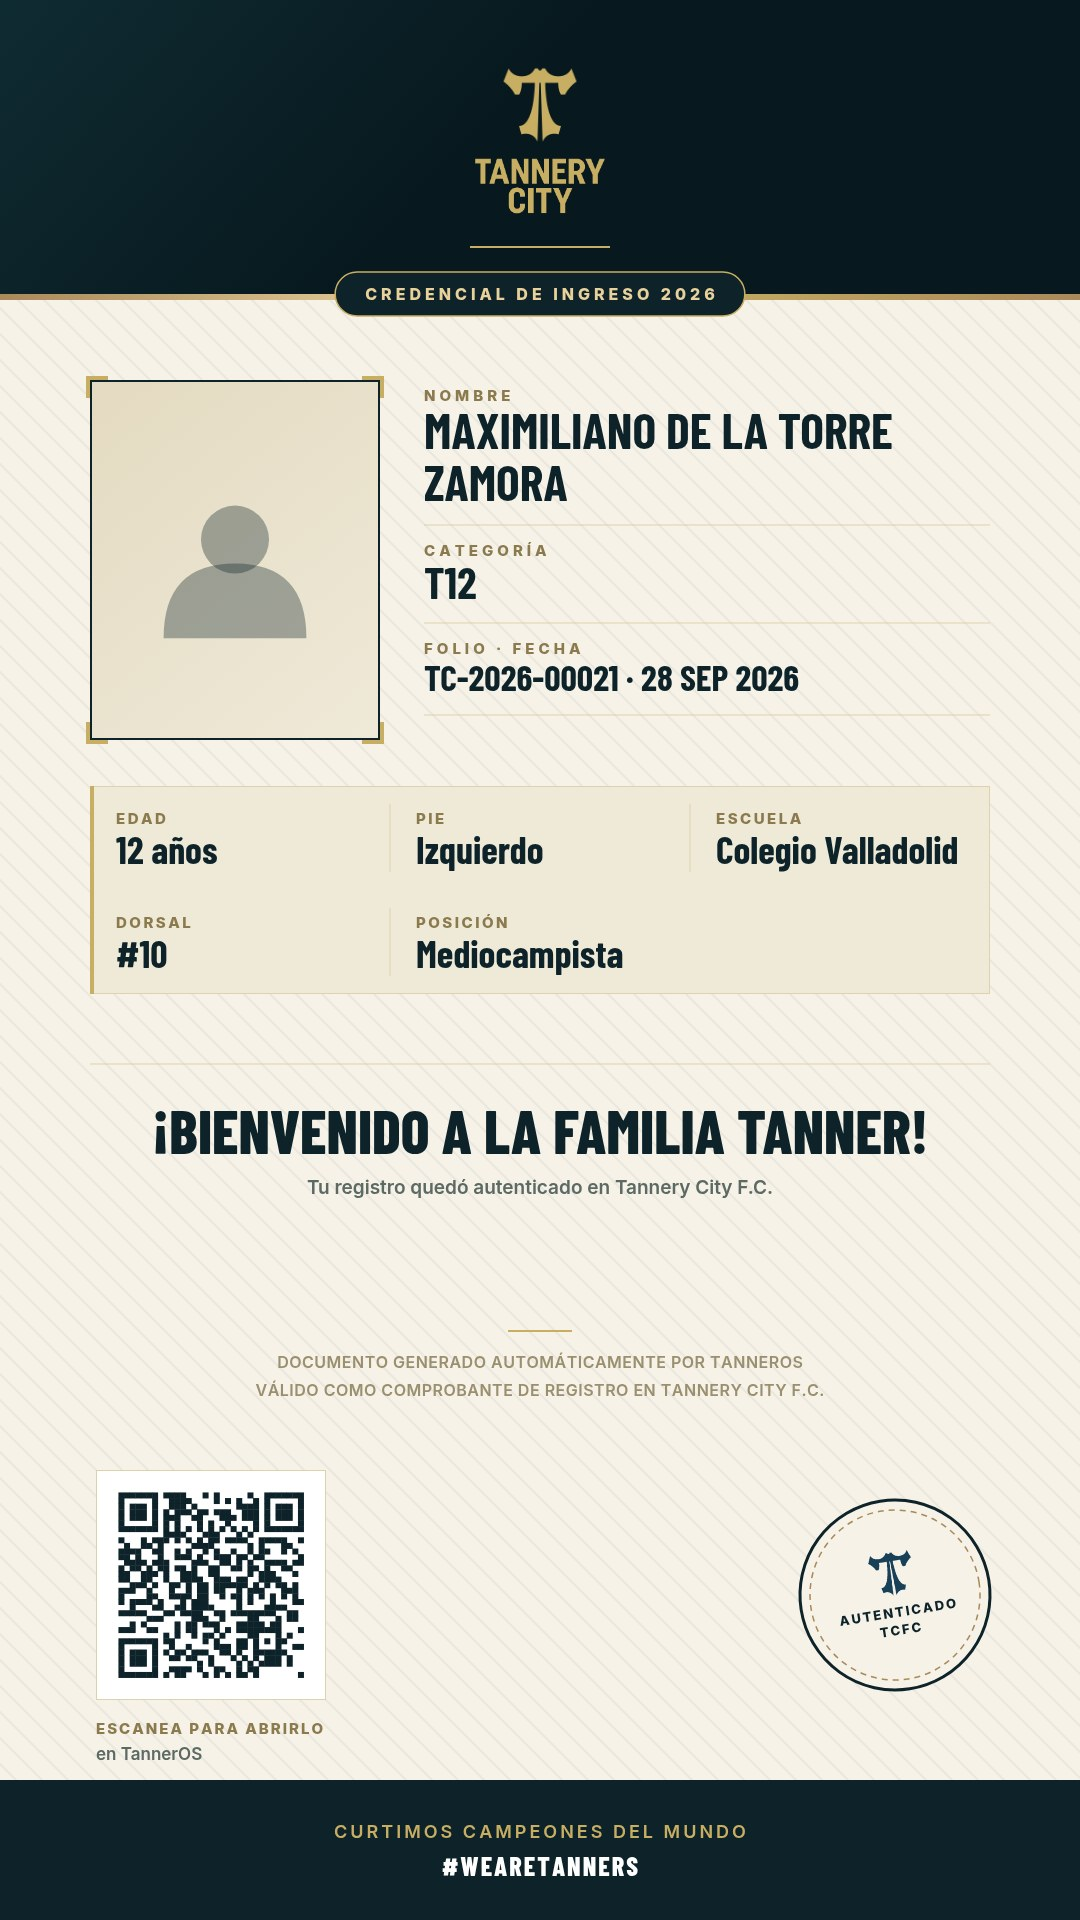
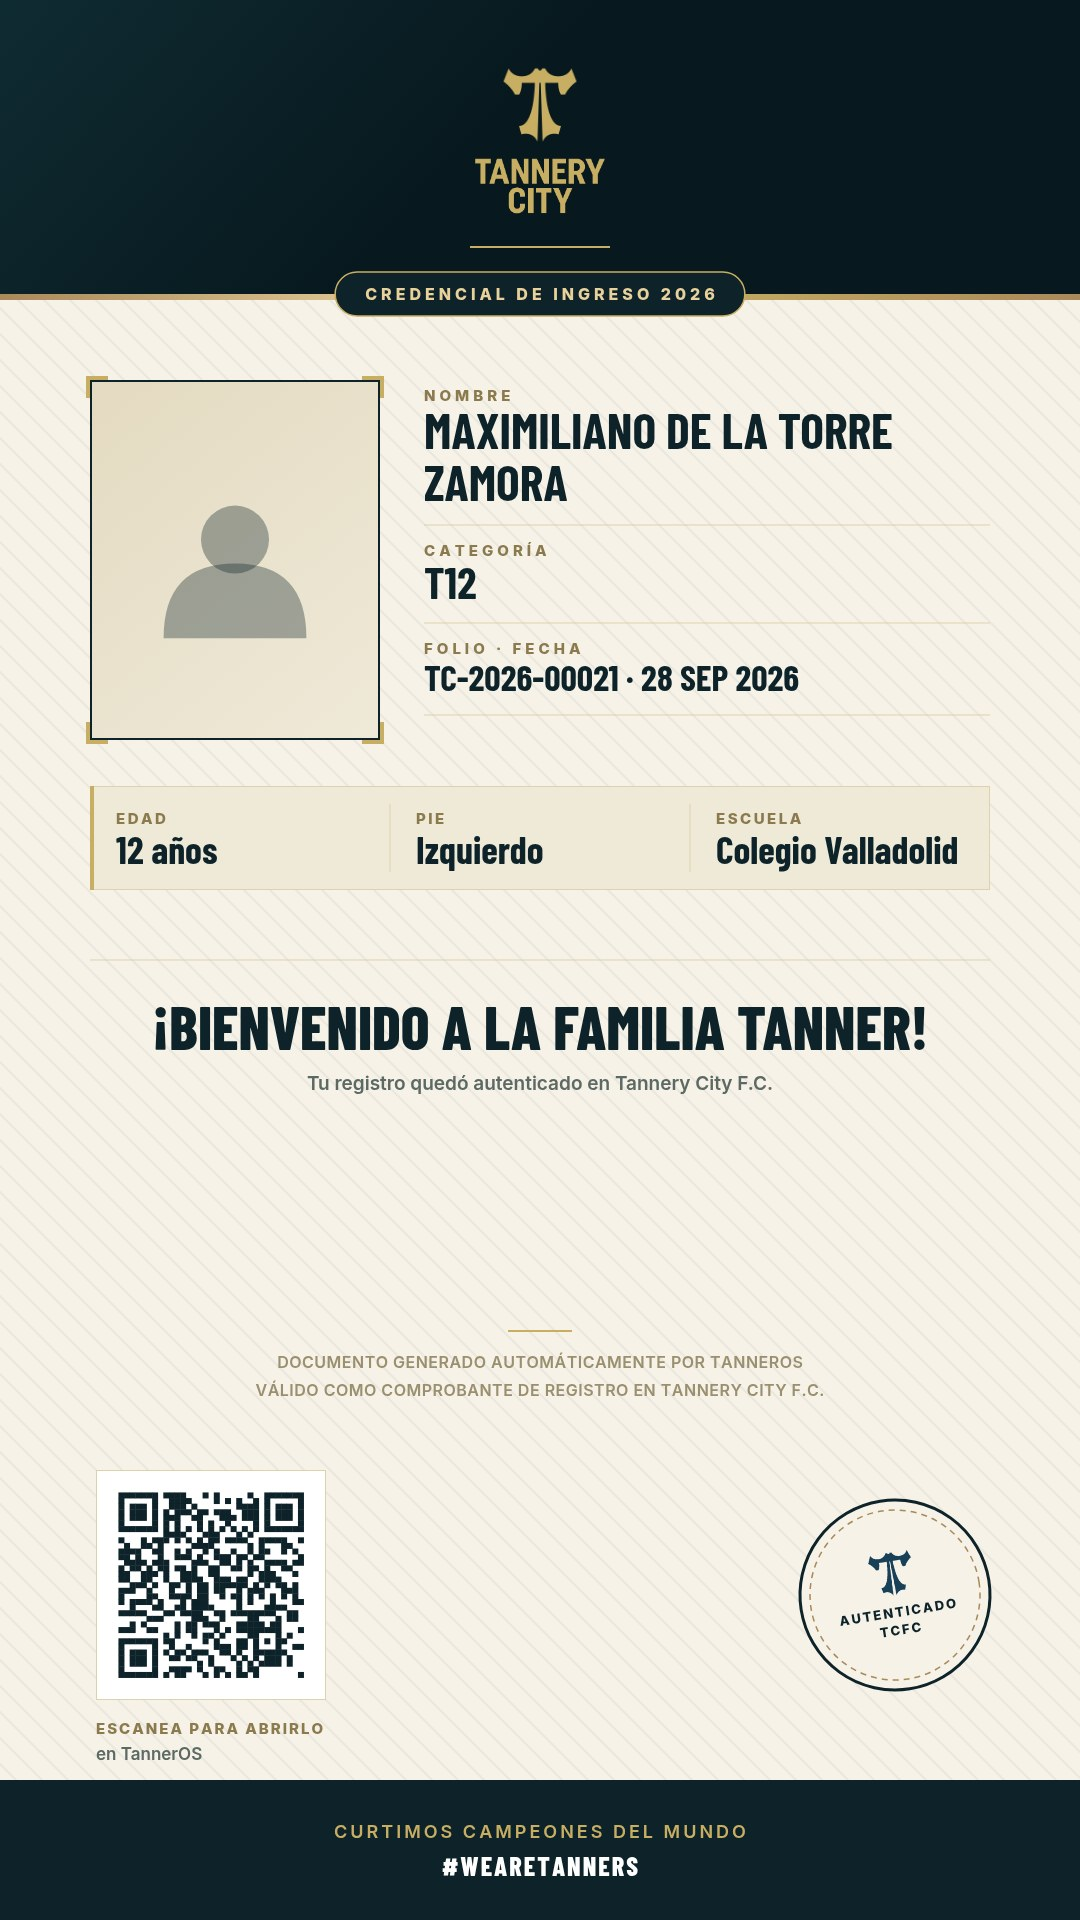
Un prospecto no tiene dorsal, asi que la credencial no lo inventa
Lo cazo Presidencia mirando la imagen de ejemplo: "¿por que sale un numero de
dorsal de alguien que se registra si aun no tiene?".

Tenia razon dos veces.

LA IMAGEN MENTIA. El banco de pruebas de scripts/vista-credencial.mjs armaba
un caso "credencial completa" con dorsal '10' y posicion 'Mediocampista' para
enseñar la franja llena. Esa imagen se le mando al club, y le hizo creer que
su credencial traia datos que su registro no captura. Un banco de pruebas que
inventa datos no enseña el producto: enseña otro.

Y EL CODIGO LOS ACEPTABA. renglonesDeCredencial() tenia soporte para 'Dorsal'
y 'Posicion' aunque nada en el sistema se los pasa: quien acaba de registrarse
es un PROSPECTO, no un Tanner. Nadie le ha asignado dorsal, y el formulario
publico ni siquiera lo pregunta —verificado: el unico 'position' que aparece
en public-form.js es del formulario de programas, otro—.

Dejar el soporte "por si acaso" no sale gratis. Hace creer que la credencial
los trae, y el dia que alguien la mire vacia va a buscar el bug donde no esta.
Dos parametros muertos son como un archivo empieza a mentir sobre lo que hace.

Asi que la credencial del registro queda con lo que el registro de verdad
captura: edad, pie y escuela. Cuando exista la credencial del Tanner ya
inscrito —esa si tiene dorsal (50 de 64) y posicion (57 de 64)— se agregan
ahi, con quien se los pase.

Pruebas: qa-credencial sube de 39 a 41 casos. Las dos nuevas exigen lo
[…]

Changed region(s): [[0.0611, 0.4688, 0.8556, 0.625]]

diff --git a/credencial.js b/credencial.js
@@ -65,12 +65,21 @@ export function renglonesDeCredencial(d = {}) {
   // Sin 'Categoría': ya sale arriba, junto al nombre. Repetir un dato en la
   // misma cara gasta un lugar que otro dato necesitaba, y hace dudar de si son
   // dos cosas distintas.
+  /* Sólo lo que el registro de verdad captura.
+   *
+   * Aquí hubo también 'Dorsal' y 'Posición', y estaban de más: quien acaba de
+   * registrarse es un prospecto, no un Tanner todavía. No tiene dorsal porque
+   * nadie se lo ha asignado, y el formulario público ni siquiera los pregunta.
+   *
+   * Dejar el soporte "por si acaso" no es gratis: hace creer que la credencial
+   * los trae, y el día que alguien la mire vacía va a buscar el bug donde no
+   * está. Cuando exista la credencial del Tanner ya inscrito —esa sí tiene
+   * dorsal (50 de 64) y posición (57 de 64)— se agregan ahí, con quien se los
+   * pase. */
   const filas = [
     ['Edad', edadTexto(d.birthDate, d.hoy)],
     ['Pie', pieTexto(d.dominantFoot)],
-    ['Escuela', d.school ? String(d.school).trim() : null],
-    ['Dorsal', d.jerseyNumber ? `#${String(d.jerseyNumber).trim()}` : null],
-    ['Posición', d.position ? String(d.position).trim() : null]
+    ['Escuela', d.school ? String(d.school).trim() : null]
   ];
   return filas
     .filter(([, valor]) => valor)
